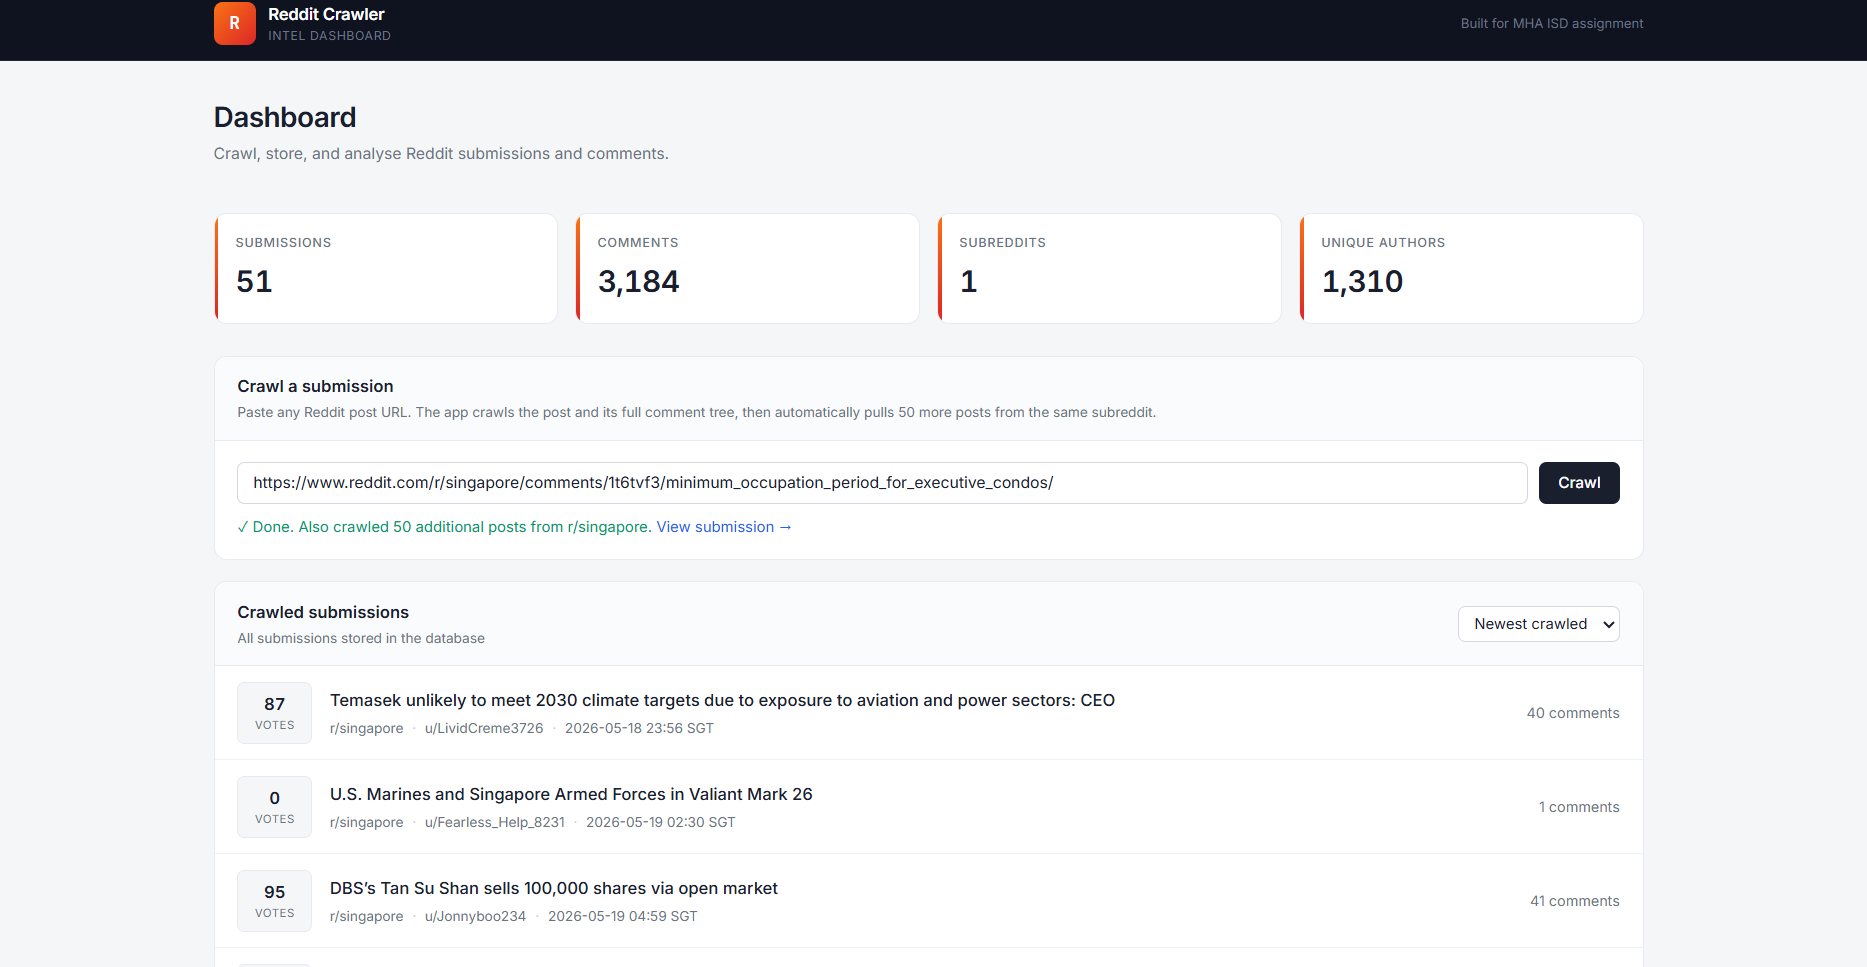
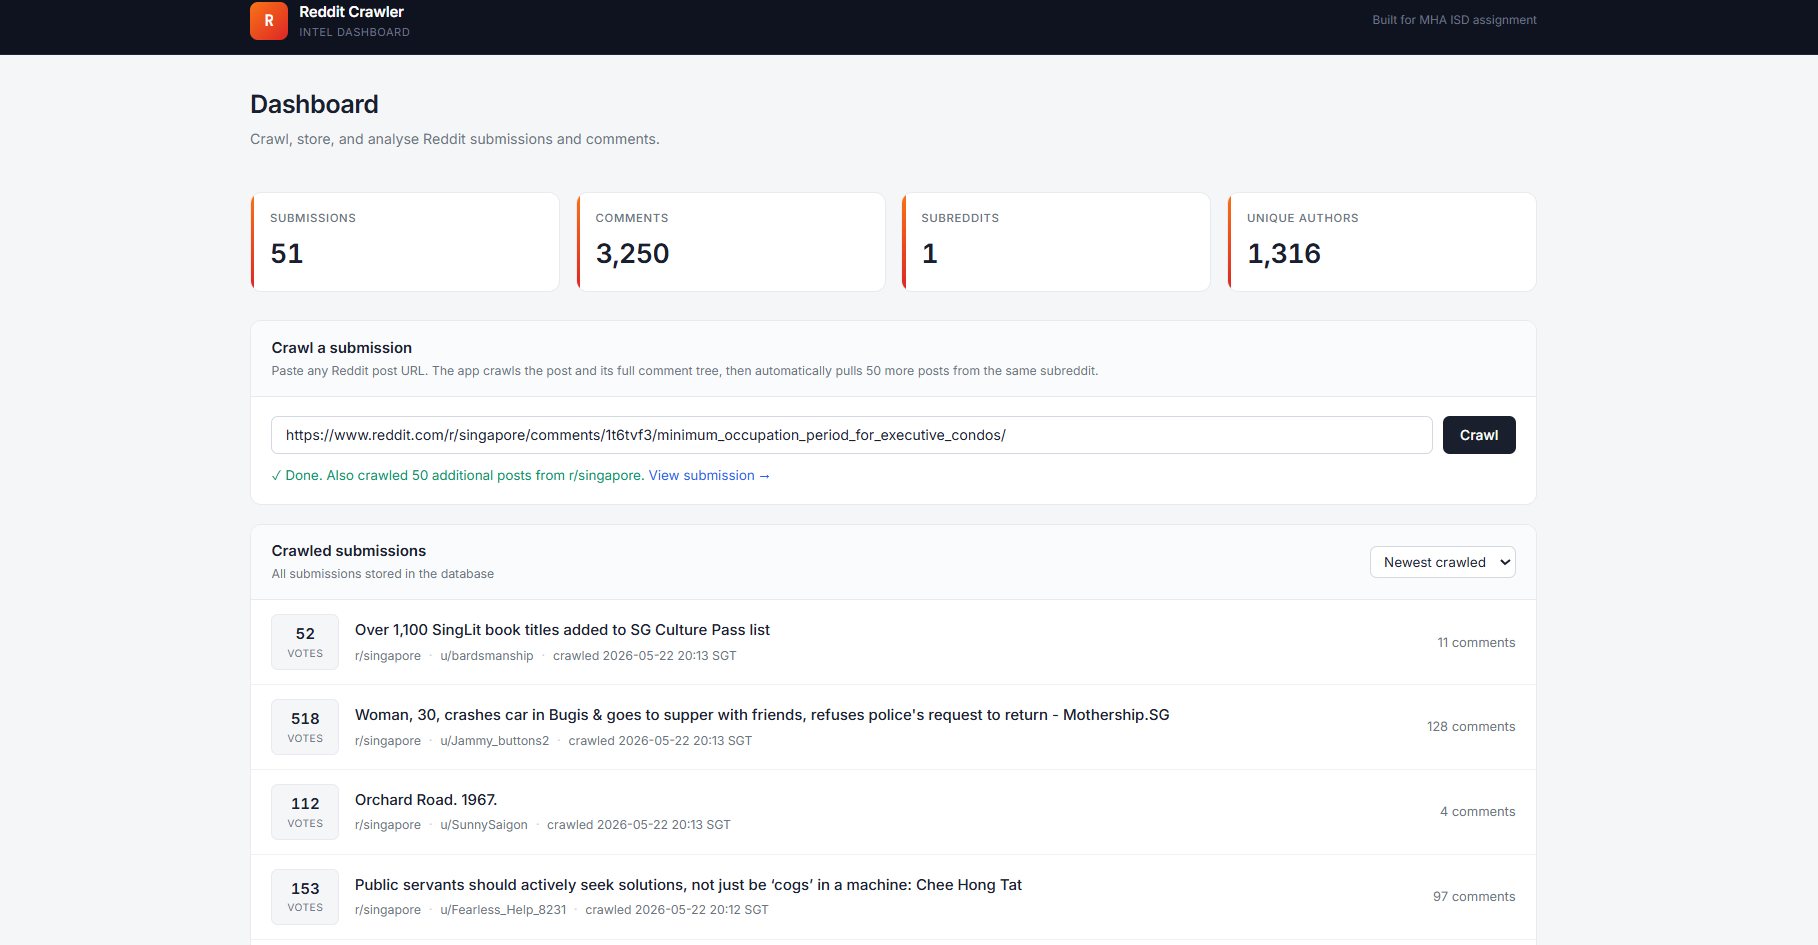
update newest crawled filtering

diff --git a/frontend/js/app.js b/frontend/js/app.js
@@ -108,6 +108,12 @@ async function loadSubmissions(page) {
 
 function renderRow(s) {
   const author = s.author ?? '[deleted]';
+
+  // When sorting by "newest crawled", show the crawl time.
+  // Otherwise, show the Reddit post creation time.
+  const timeToShow = currentSort === 'newest' ? s.crawled_at_sgt : s.created_sgt;
+  const timeLabel = currentSort === 'newest' ? 'crawled' : 'posted';
+
   return `
     <div class="sub-row">
       <div class="sub-score">
@@ -121,7 +127,7 @@ function renderRow(s) {
           <span class="dot">·</span>
           <a href="/author/${author}">u/${author}</a>
           <span class="dot">·</span>
-          <span>${s.created_sgt.replace('T', ' ').substring(0, 16)} SGT</span>
+          <span>${timeLabel} ${timeToShow.replace('T', ' ').substring(0, 16)} SGT</span>
         </div>
       </div>
       <div class="sub-comments">${s.num_comments.toLocaleString()} comments</div>

diff --git a/backend/api/schemas.py b/backend/api/schemas.py
@@ -29,10 +29,11 @@ class SubmissionSummary(BaseModel):
     id: str
     title: str
     subreddit: str
-    author: Optional[str]
+    author: str | None
     score: int
     num_comments: int
     created_sgt: str
+    crawled_at_sgt: str
 
 
 class CommentWithContext(BaseModel):
@@ -61,3 +62,4 @@ class CrawlRequest(BaseModel):
 class SubredditCrawlRequest(BaseModel):
     subreddit: str
     limit: int = 50
+

diff --git a/backend/api/routes.py b/backend/api/routes.py
@@ -63,6 +63,7 @@ def _serialize_summary(s: Submission) -> SubmissionSummary:
         score=s.score,
         num_comments=s.num_comments,
         created_sgt=utc_to_sgt_iso(s.created_utc),
+        crawled_at_sgt=utc_to_sgt_iso(s.crawled_at),
     )
 
 